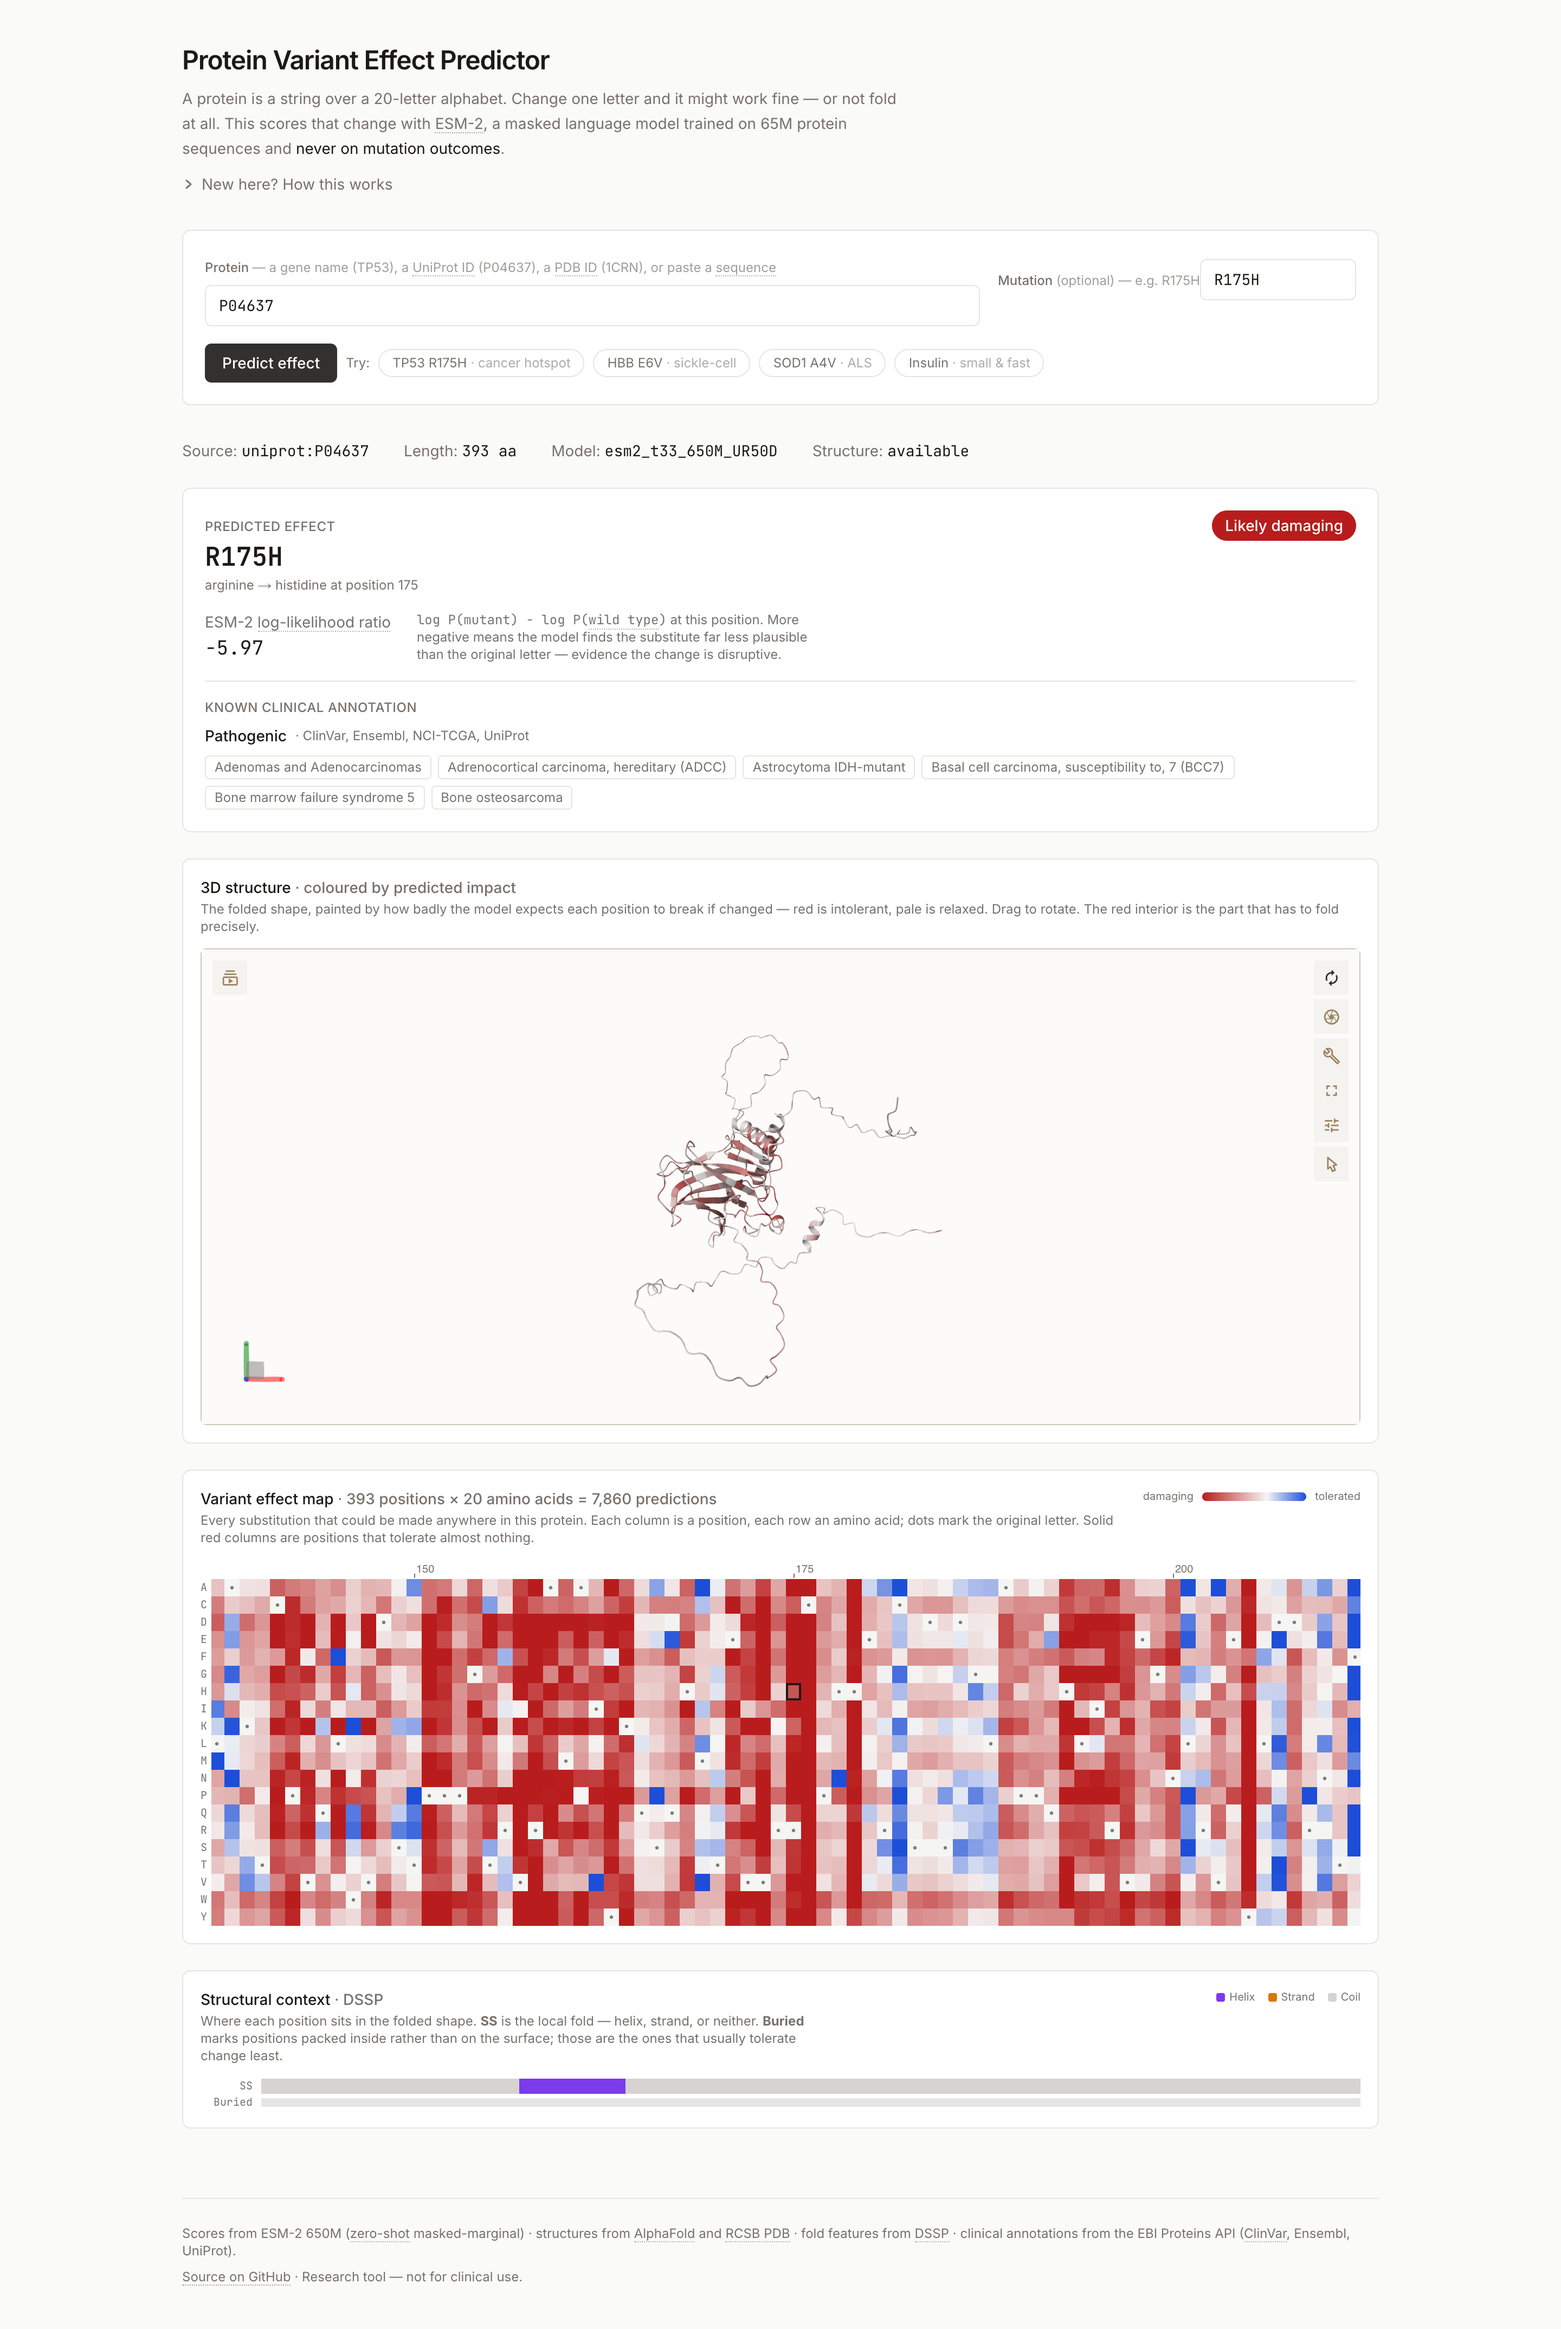
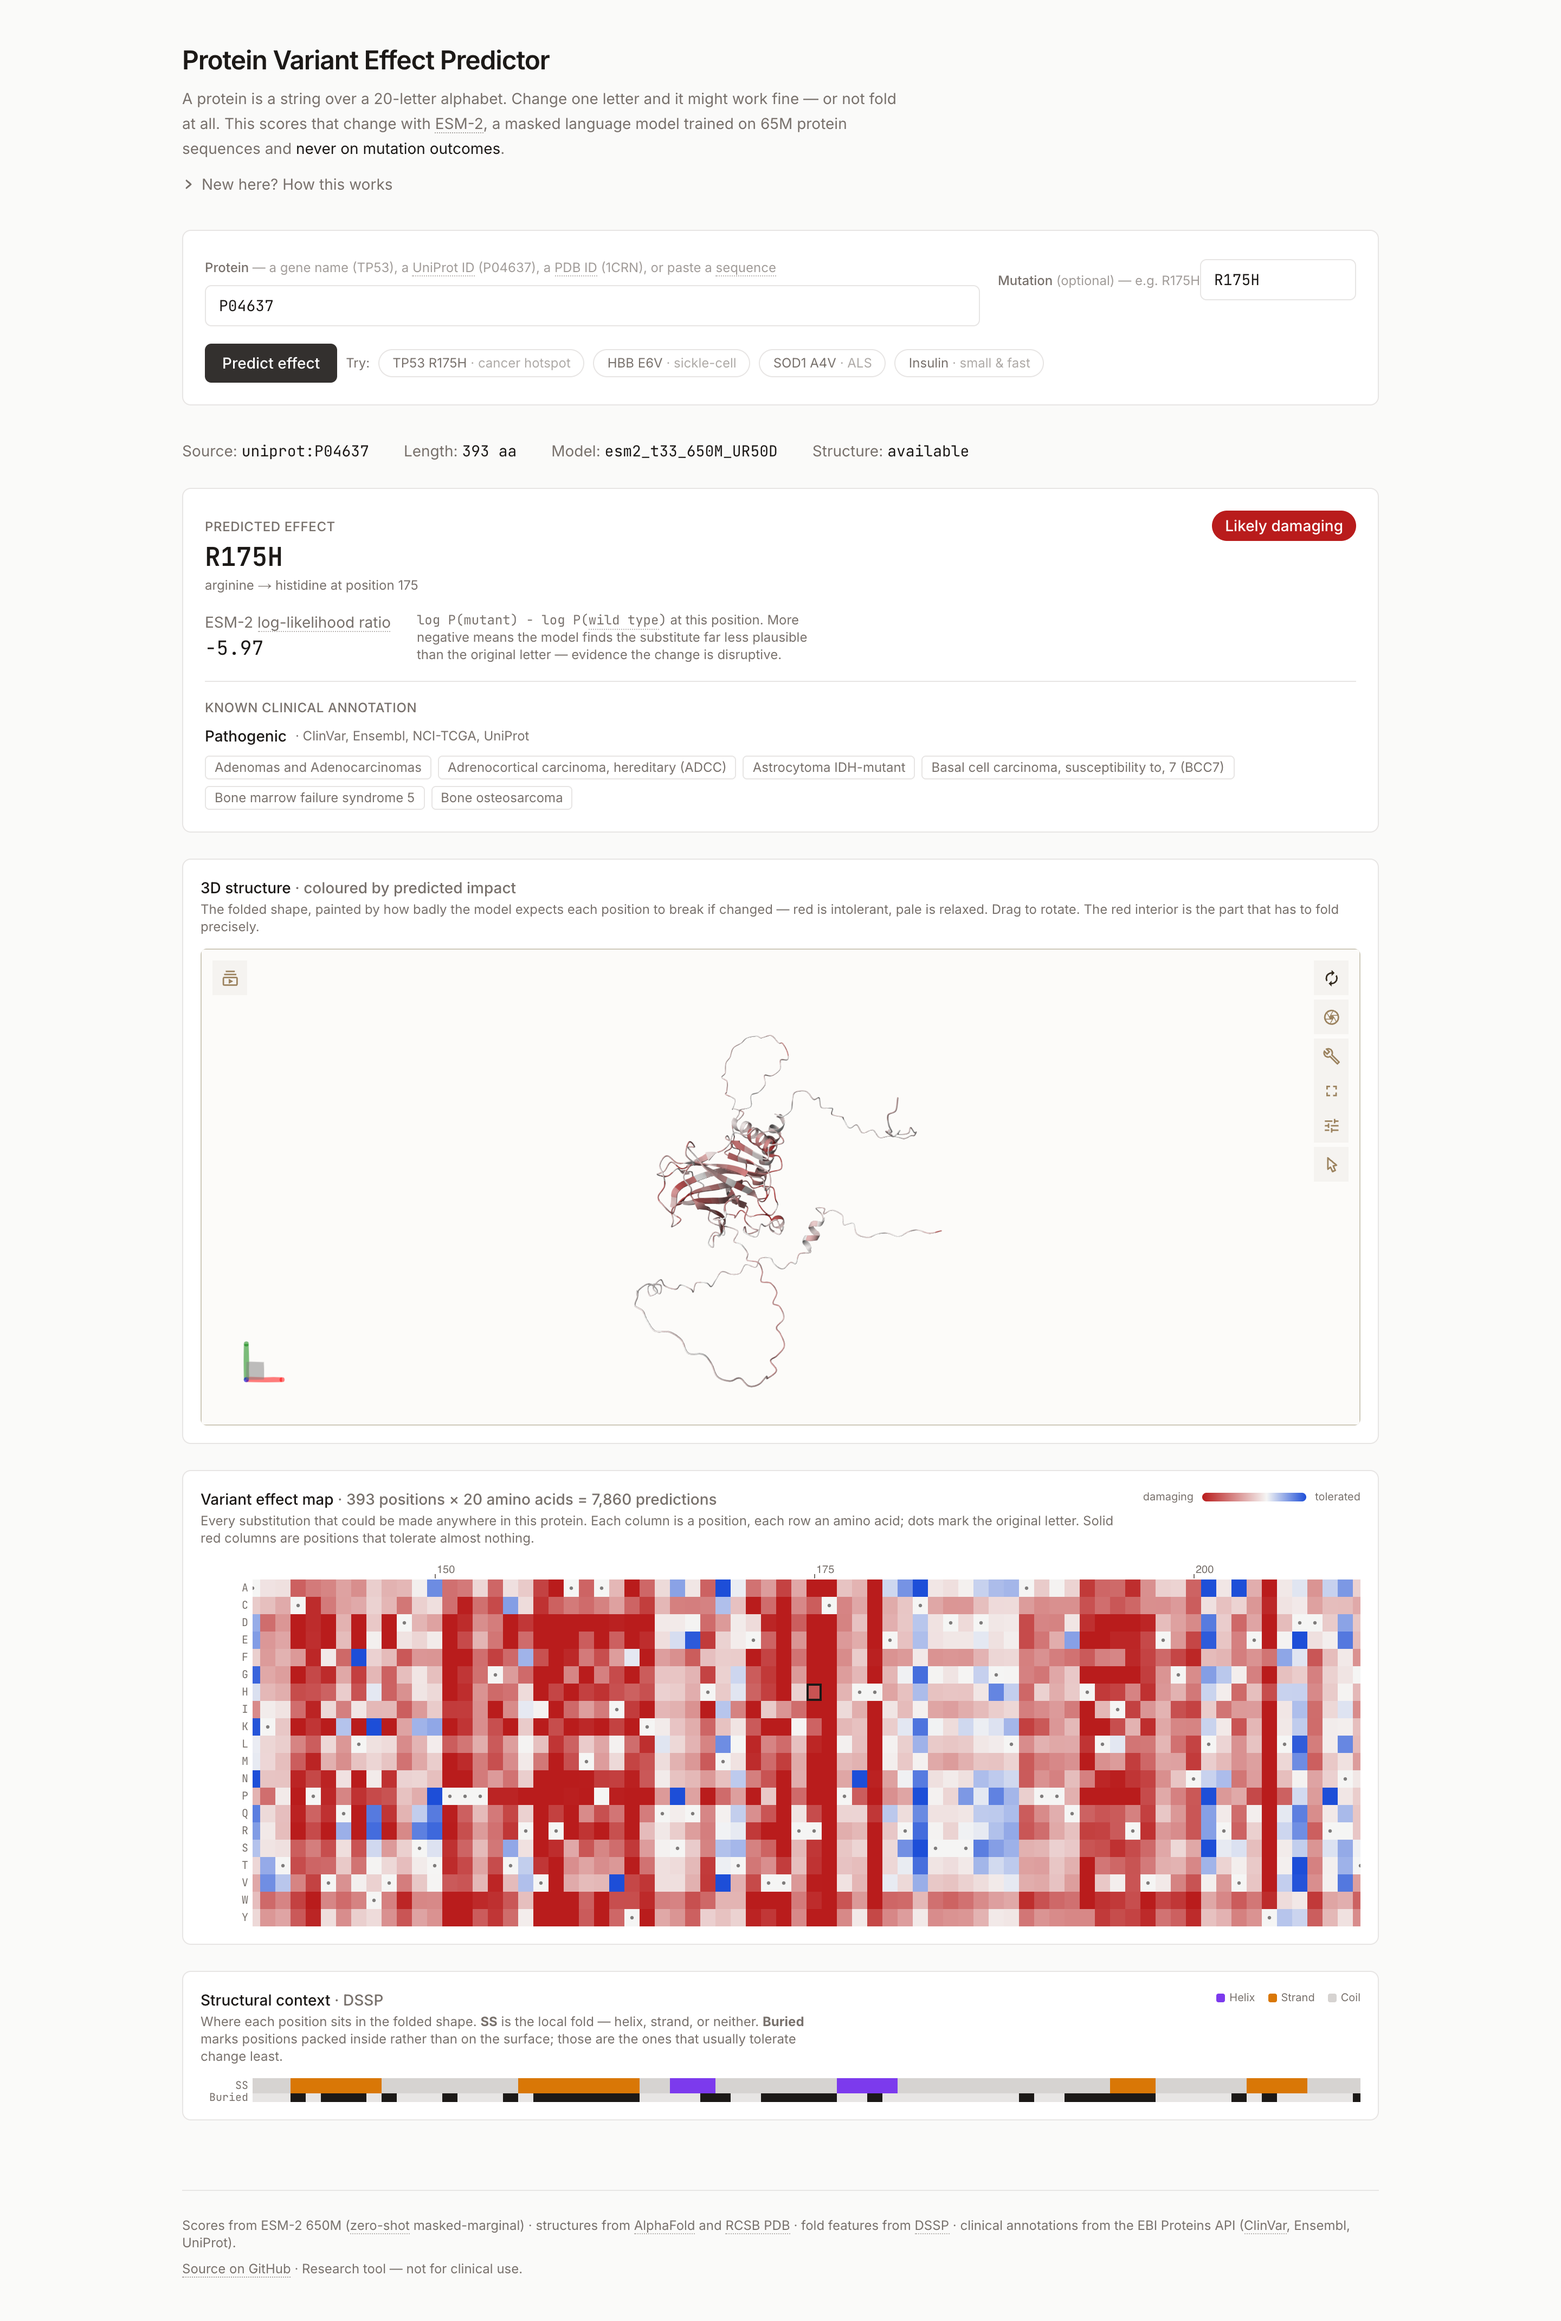
fix(frontend): keep the DSSP track aligned with the heatmap
StructureTrack claimed to be "aligned to the same 14px-per-residue grid as
the heatmap so columns line up", but the two lived in separate scroll
containers with no coupling. The heatmap auto-scrolls to centre a queried
mutation, so asking for TP53 R175H left the heatmap showing positions
~150-200 while the track still showed 1-67. Anyone checking whether the
mutated residue was buried was reading a different part of the protein,
and because the N-terminus of p53 is disordered and surface-exposed the
track also just looked broken — all coil, nothing buried.

- lib/grid: CELL_W and AXIS_W in one place. Cell width was already
  duplicated across both components, and the gutters silently disagreed
  (~14px vs 56px), so even at equal scroll offsets column N sat at a
  different x in each.
- lib/useScrollSync: panes register by group and mirror each other's
  scrollLeft. Assigning only on a real difference means the echoed scroll
  event terminates without a re-entrancy guard. A late-mounting pane (the
  track reveals on a Framer Motion delay) adopts the group's offset when
  it joins.
- StructureTrack: row labels moved outside the scroll container, matching
  how the heatmap fixes its amino-acid axis — inside it they scrolled away
  with the data.

Verified: both panes report scrollLeft 1925 after querying R175H, and the
track now shows the DNA-binding domain's strands and buried core next to
the heatmap columns they describe.

diff --git a/frontend/components/StructureTrack.tsx b/frontend/components/StructureTrack.tsx
@@ -1,11 +1,19 @@
 "use client";
 
+import { useRef } from "react";
 import type { StructureContext } from "@/lib/types";
+import { useScrollSync } from "@/lib/useScrollSync";
+import { AXIS_W, CELL_W } from "@/lib/grid";
 
 // A compact per-residue track shown under the heatmap: secondary structure
-// (helix / strand / coil) plus a buried/exposed strip. Aligned to the same
-// 14px-per-residue grid as the heatmap so columns line up.
-const CELL_W = 14;
+// (helix / strand / coil) plus a buried/exposed strip. Shares the heatmap's
+// grid geometry and scroll position (see lib/grid and lib/useScrollSync) so a
+// column here refers to the same residue as the column above it.
+
+// Row heights, shared by the strips and their fixed labels so the two stay
+// vertically aligned.
+const SS_H = 14;
+const BURIED_H = 8;
 
 const SS_COLOR: Record<string, string> = {
   H: "#7C3AED", // helix — violet
@@ -21,6 +29,12 @@ const SS_LABEL: Record<string, string> = {
 export function StructureTrack({ structure }: { structure: StructureContext }) {
   const { secondary_structure: ss, buried } = structure;
   const width = ss.length * CELL_W;
+
+  // Same residue grid as the heatmap, so follow its horizontal position —
+  // otherwise the heatmap centres on the queried mutation while this track
+  // still shows position 1, and the columns no longer refer to each other.
+  const scrollRef = useRef<HTMLDivElement>(null);
+  useScrollSync("residue-grid", scrollRef);
 
   return (
     <div className="rounded-lg border border-border bg-surface-raised p-4">
@@ -38,44 +52,52 @@ export function StructureTrack({ structure }: { structure: StructureContext }) {
         </div>
         <Legend />
       </div>
-      <div className="scroll-slim overflow-x-auto">
-        <div style={{ width }}>
-          <Row label="SS">
-            {ss.map((s, i) => (
-              <span
-                key={i}
-                title={`${i + 1} · ${SS_LABEL[s] ?? "Coil"}`}
-                style={{ width: CELL_W, background: SS_COLOR[s] ?? SS_COLOR.C }}
-                className="inline-block h-3.5"
-              />
-            ))}
-          </Row>
-          <Row label="Buried">
-            {buried.map((b, i) => (
-              <span
-                key={i}
-                title={`${i + 1} · ${b ? "Buried" : "Exposed"}`}
-                style={{
-                  width: CELL_W,
-                  background: b ? "#1C1917" : "#E7E5E4",
-                }}
-                className="inline-block h-2"
-              />
-            ))}
-          </Row>
+      {/* Labels sit OUTSIDE the scroll container, mirroring the heatmap's fixed
+          amino-acid axis — inside it they would scroll away with the data. The
+          gutter is the same width in both, so residue N lands at the same x. */}
+      <div className="flex">
+        <div
+          className="shrink-0 pr-1 text-right font-mono text-[10px] text-muted"
+          style={{ width: AXIS_W }}
+        >
+          <div style={{ height: SS_H, lineHeight: `${SS_H}px` }}>SS</div>
+          <div style={{ height: BURIED_H, lineHeight: `${BURIED_H}px` }}>
+            Buried
+          </div>
+        </div>
+        <div ref={scrollRef} className="scroll-slim overflow-x-auto">
+          <div style={{ width }}>
+            <div className="flex leading-none">
+              {ss.map((s, i) => (
+                <span
+                  key={i}
+                  title={`${i + 1} · ${SS_LABEL[s] ?? "Coil"}`}
+                  style={{
+                    width: CELL_W,
+                    height: SS_H,
+                    background: SS_COLOR[s] ?? SS_COLOR.C,
+                  }}
+                  className="inline-block"
+                />
+              ))}
+            </div>
+            <div className="flex leading-none">
+              {buried.map((b, i) => (
+                <span
+                  key={i}
+                  title={`${i + 1} · ${b ? "Buried" : "Exposed"}`}
+                  style={{
+                    width: CELL_W,
+                    height: BURIED_H,
+                    background: b ? "#1C1917" : "#E7E5E4",
+                  }}
+                  className="inline-block"
+                />
+              ))}
+            </div>
+          </div>
         </div>
       </div>
-    </div>
-  );
-}
-
-function Row({ label, children }: { label: string; children: React.ReactNode }) {
-  return (
-    <div className="flex items-center gap-2">
-      <span className="w-12 shrink-0 text-right font-mono text-[10px] text-muted">
-        {label}
-      </span>
-      <div className="flex leading-none">{children}</div>
     </div>
   );
 }

diff --git a/frontend/lib/useScrollSync.ts b/frontend/lib/useScrollSync.ts
@@ -1,0 +1,70 @@
+"use client";
+
+import { useEffect, type RefObject } from "react";
+
+/**
+ * Keep several horizontally-scrolling panes locked to the same offset.
+ *
+ * The effect map and the DSSP track are drawn on the same 14px-per-residue
+ * grid so that a column in one lines up with the same residue in the other —
+ * but they live in separate scroll containers, so that alignment silently
+ * broke the moment either one moved. In particular the heatmap auto-scrolls
+ * to centre a queried mutation, which left the track showing the N-terminus
+ * while the heatmap showed position 175. Anyone trying to check whether the
+ * mutated residue is buried was reading the wrong part of the protein.
+ *
+ * Panes register by group name and mirror each other on scroll. A late-mounting
+ * pane (the track reveals after the heatmap, on a Framer Motion delay) adopts
+ * the group's current offset when it joins.
+ */
+const GROUPS = new Map<string, Set<HTMLElement>>();
+
+// Sub-pixel and clamping differences between panes of unequal width would
+// otherwise ping-pong forever; ignore anything under a pixel.
+const EPSILON = 1;
+
+export function useScrollSync(
+  group: string,
+  ref: RefObject<HTMLElement | null>,
+) {
+  useEffect(() => {
+    const el = ref.current;
+    if (!el) return;
+
+    let peers = GROUPS.get(group);
+    if (!peers) {
+      peers = new Set();
+      GROUPS.set(group, peers);
+    }
+    const set = peers;
+
+    // Adopt the current offset when joining an already-scrolled group. Deferred
+    // a frame because a pane revealing behind an animation has no width yet,
+    // and assigning scrollLeft to a zero-width element is a no-op.
+    if (set.size > 0) {
+      const [leader] = set;
+      const offset = leader.scrollLeft;
+      requestAnimationFrame(() => {
+        if (Math.abs(el.scrollLeft - offset) > EPSILON) el.scrollLeft = offset;
+      });
+    }
+    set.add(el);
+
+    const onScroll = () => {
+      // No re-entrancy guard needed: assigning only when the peer actually
+      // differs means the echoed scroll event finds nothing left to do.
+      for (const peer of set) {
+        if (peer !== el && Math.abs(peer.scrollLeft - el.scrollLeft) > EPSILON) {
+          peer.scrollLeft = el.scrollLeft;
+        }
+      }
+    };
+
+    el.addEventListener("scroll", onScroll, { passive: true });
+    return () => {
+      el.removeEventListener("scroll", onScroll);
+      set.delete(el);
+      if (set.size === 0) GROUPS.delete(group);
+    };
+  }, [group, ref]);
+}

diff --git a/frontend/components/EffectHeatmap.tsx b/frontend/components/EffectHeatmap.tsx
@@ -3,8 +3,9 @@
 import { useEffect, useMemo, useRef, useState } from "react";
 import { AA_ORDER } from "@/lib/types";
 import { llrColor } from "@/lib/color";
+import { useScrollSync } from "@/lib/useScrollSync";
+import { AXIS_W, CELL_W } from "@/lib/grid";
 
-const CELL_W = 14;
 const CELL_H = 16;
 const RULER_H = 18;
 const GRID_H = CELL_H * 20;
@@ -28,6 +29,9 @@ export function EffectHeatmap({ effectMap, highlight }: Props) {
   const scrollRef = useRef<HTMLDivElement>(null);
   const [hover, setHover] = useState<Hover | null>(null);
   const L = effectMap.length;
+
+  // Keeps the DSSP track below locked to the same residue columns.
+  useScrollSync("residue-grid", scrollRef);
 
   // Wild-type residue per position = the column whose LLR is exactly 0.
   const wt = useMemo(
@@ -158,7 +162,7 @@ export function EffectHeatmap({ effectMap, highlight }: Props) {
         {/* Fixed amino-acid axis */}
         <div
           className="shrink-0 pr-1 text-right font-mono text-[10px] text-muted"
-          style={{ paddingTop: RULER_H }}
+          style={{ paddingTop: RULER_H, width: AXIS_W }}
         >
           {AA_ORDER.map((a) => (
             <div key={a} style={{ height: CELL_H, lineHeight: `${CELL_H}px` }}>

diff --git a/frontend/lib/grid.ts b/frontend/lib/grid.ts
@@ -1,0 +1,19 @@
+/**
+ * Geometry shared by every per-residue view.
+ *
+ * The effect map and the DSSP track are read together — "is the position the
+ * heatmap is showing me buried?" — so they must use one grid. Both the cell
+ * width and the left gutter have to match: equal cell widths keep the columns
+ * the same size, and an equal gutter keeps column N at the same x in both,
+ * which is what makes scrolling them in lockstep meaningful.
+ */
+
+/** Horizontal pixels per residue. */
+export const CELL_W = 14;
+
+/**
+ * Width of the fixed label gutter to the left of the scrolling grid. Wide
+ * enough for the track's "Buried" row label; the heatmap's single-letter
+ * amino-acid axis simply right-aligns inside the same width.
+ */
+export const AXIS_W = 48;
